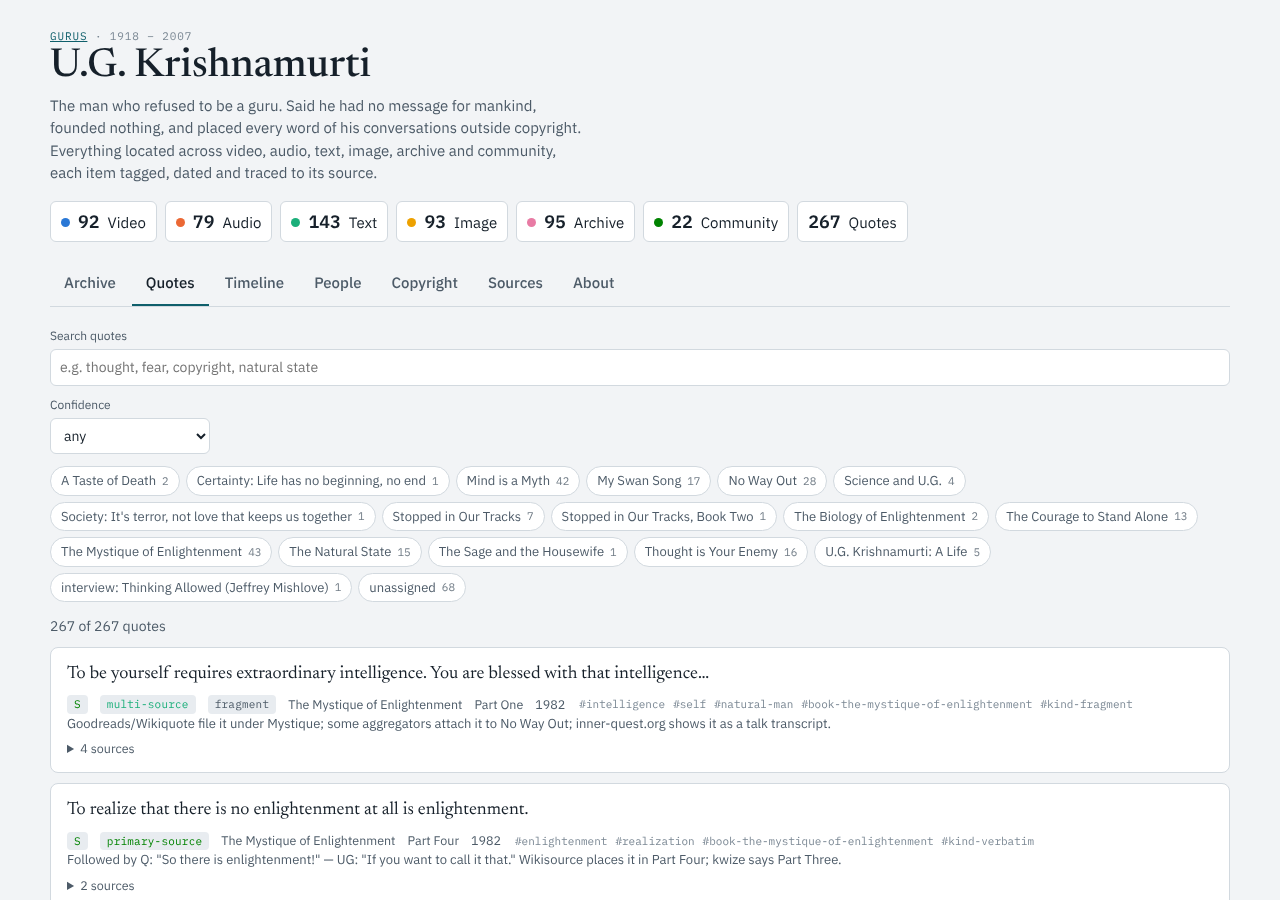
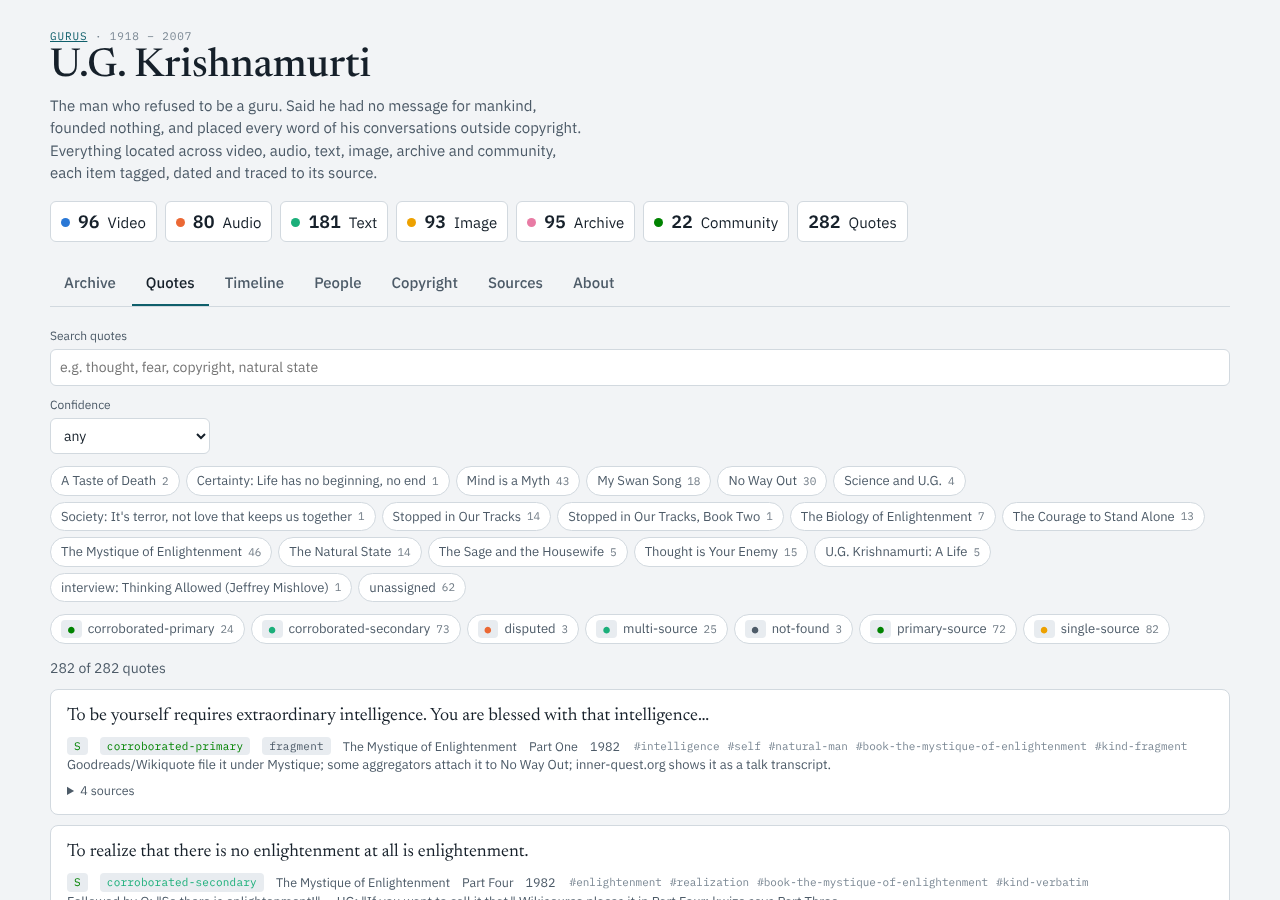
Quotes tab: filter by verdict
Claude-Session: https://claude.ai/code/session_01Uh46cDYDW5Gk2aYewEiz9w

diff --git a/hanjopurebuddha.com/templates/teacher.html b/hanjopurebuddha.com/templates/teacher.html
@@ -184,6 +184,7 @@ svg.chart .label { fill: var(--fg-2); font-size: 11px; }
     <label>Confidence <select id="qconf"><option value="">any</option><option value="S">S · confirmed</option><option value="T">T · from memory</option></select></label>
   </div>
   <div class="chips" id="bookChips" aria-label="Book"></div>
+  <div class="chips" id="verdictChips" aria-label="Verdict"></div>
   <div class="toolbar"><div id="qcount"></div></div>
   <div id="quotes"></div>
 </section>
@@ -350,7 +351,11 @@ svg.chart .label { fill: var(--fg-2); font-size: 11px; }
   render();
 
   // ---- quotes
-  const QF = { q: '', books: new Set(), conf: '' };
+  const QF = { q: '', books: new Set(), conf: '', verdicts: new Set() };
+  const verdicts = uniq(quotes.map(q => q.verdict)).sort();
+  function drawVerdictChips() { $('#verdictChips').innerHTML = verdicts.map(v => `<button class="chip" data-v="${esc(v)}" aria-pressed="${QF.verdicts.has(v)}"><span class="pill verdict-${esc(v)}">●</span>${esc(v)} <span class="n">${quotes.filter(q => q.verdict === v).length}</span></button>`).join(''); }
+  drawVerdictChips();
+  $('#verdictChips').addEventListener('click', e => { const b = e.target.closest('.chip'); if (!b) return; const v = b.dataset.v; QF.verdicts.has(v) ? QF.verdicts.delete(v) : QF.verdicts.add(v); drawVerdictChips(); renderQuotes(); });
   const books = uniq(quotes.map(q => q.book)).sort();
   const bookChips = $('#bookChips');
   function drawBookChips() { bookChips.innerHTML = books.map(b => `<button class="chip" data-b="${esc(b)}" aria-pressed="${QF.books.has(b)}">${esc(b)} <span class="n">${quotes.filter(q => q.book === b).length}</span></button>`).join(''); }
@@ -360,7 +365,7 @@ svg.chart .label { fill: var(--fg-2); font-size: 11px; }
   $('#qconf').addEventListener('input', e => { QF.conf = e.target.value; renderQuotes(); });
   function renderQuotes() {
     const q = QF.q.trim().toLowerCase().split(/\s+/).filter(Boolean);
-    const rows = quotes.filter(x => (!QF.books.size || QF.books.has(x.book)) && (!QF.conf || x.confidence === QF.conf) && q.every(w => x._s.includes(w)));
+    const rows = quotes.filter(x => (!QF.books.size || QF.books.has(x.book)) && (!QF.conf || x.confidence === QF.conf) && (!QF.verdicts.size || QF.verdicts.has(x.verdict)) && q.every(w => x._s.includes(w)));
     $('#qcount').textContent = `${rows.length} of ${quotes.length} quotes`;
     $('#quotes').innerHTML = rows.length ? rows.map(x => `<div class="quote"><blockquote>${esc(x.text)}</blockquote><div class="row"><span class="pill conf-${esc(x.confidence)}">${esc(x.confidence)}</span>${x.verdict ? `<span class="pill verdict-${esc(x.verdict)}">${esc(x.verdict)}</span>` : ''}${x.kind && x.kind !== 'verbatim' ? `<span class="pill">${esc(x.kind)}</span>` : ''}<span>${esc(x.book)}</span>${x.chapter ? `<span>${esc(x.chapter)}</span>` : ''}${x.year ? `<span>${x.year}</span>` : ''}${x.tags.length ? `<span class="tags">${x.tags.map(t => `<span class="tag">#${esc(t)}</span>`).join('')}</span>` : ''}</div>${x.note ? `<div class="note">${esc(x.note)}</div>` : ''}${x.sources.length ? `<details><summary>${x.sources.length} source${x.sources.length > 1 ? 's' : ''}</summary><ul>${x.sources.map(s => `<li><a href="${esc(s)}" target="_blank" rel="noopener">${esc(s)}</a></li>`).join('')}</ul></details>` : ''}</div>`).join('') : `<div class="empty">No quotes match.</div>`;
   }

diff --git a/site/gurus/ug-krishnamurti/index.html b/site/gurus/ug-krishnamurti/index.html
@@ -184,6 +184,7 @@ svg.chart .label { fill: var(--fg-2); font-size: 11px; }
     <label>Confidence <select id="qconf"><option value="">any</option><option value="S">S · confirmed</option><option value="T">T · from memory</option></select></label>
   </div>
   <div class="chips" id="bookChips" aria-label="Book"></div>
+  <div class="chips" id="verdictChips" aria-label="Verdict"></div>
   <div class="toolbar"><div id="qcount"></div></div>
   <div id="quotes"></div>
 </section>
@@ -350,7 +351,11 @@ svg.chart .label { fill: var(--fg-2); font-size: 11px; }
   render();
 
   // ---- quotes
-  const QF = { q: '', books: new Set(), conf: '' };
+  const QF = { q: '', books: new Set(), conf: '', verdicts: new Set() };
+  const verdicts = uniq(quotes.map(q => q.verdict)).sort();
+  function drawVerdictChips() { $('#verdictChips').innerHTML = verdicts.map(v => `<button class="chip" data-v="${esc(v)}" aria-pressed="${QF.verdicts.has(v)}"><span class="pill verdict-${esc(v)}">●</span>${esc(v)} <span class="n">${quotes.filter(q => q.verdict === v).length}</span></button>`).join(''); }
+  drawVerdictChips();
+  $('#verdictChips').addEventListener('click', e => { const b = e.target.closest('.chip'); if (!b) return; const v = b.dataset.v; QF.verdicts.has(v) ? QF.verdicts.delete(v) : QF.verdicts.add(v); drawVerdictChips(); renderQuotes(); });
   const books = uniq(quotes.map(q => q.book)).sort();
   const bookChips = $('#bookChips');
   function drawBookChips() { bookChips.innerHTML = books.map(b => `<button class="chip" data-b="${esc(b)}" aria-pressed="${QF.books.has(b)}">${esc(b)} <span class="n">${quotes.filter(q => q.book === b).length}</span></button>`).join(''); }
@@ -360,7 +365,7 @@ svg.chart .label { fill: var(--fg-2); font-size: 11px; }
   $('#qconf').addEventListener('input', e => { QF.conf = e.target.value; renderQuotes(); });
   function renderQuotes() {
     const q = QF.q.trim().toLowerCase().split(/\s+/).filter(Boolean);
-    const rows = quotes.filter(x => (!QF.books.size || QF.books.has(x.book)) && (!QF.conf || x.confidence === QF.conf) && q.every(w => x._s.includes(w)));
+    const rows = quotes.filter(x => (!QF.books.size || QF.books.has(x.book)) && (!QF.conf || x.confidence === QF.conf) && (!QF.verdicts.size || QF.verdicts.has(x.verdict)) && q.every(w => x._s.includes(w)));
     $('#qcount').textContent = `${rows.length} of ${quotes.length} quotes`;
     $('#quotes').innerHTML = rows.length ? rows.map(x => `<div class="quote"><blockquote>${esc(x.text)}</blockquote><div class="row"><span class="pill conf-${esc(x.confidence)}">${esc(x.confidence)}</span>${x.verdict ? `<span class="pill verdict-${esc(x.verdict)}">${esc(x.verdict)}</span>` : ''}${x.kind && x.kind !== 'verbatim' ? `<span class="pill">${esc(x.kind)}</span>` : ''}<span>${esc(x.book)}</span>${x.chapter ? `<span>${esc(x.chapter)}</span>` : ''}${x.year ? `<span>${x.year}</span>` : ''}${x.tags.length ? `<span class="tags">${x.tags.map(t => `<span class="tag">#${esc(t)}</span>`).join('')}</span>` : ''}</div>${x.note ? `<div class="note">${esc(x.note)}</div>` : ''}${x.sources.length ? `<details><summary>${x.sources.length} source${x.sources.length > 1 ? 's' : ''}</summary><ul>${x.sources.map(s => `<li><a href="${esc(s)}" target="_blank" rel="noopener">${esc(s)}</a></li>`).join('')}</ul></details>` : ''}</div>`).join('') : `<div class="empty">No quotes match.</div>`;
   }
